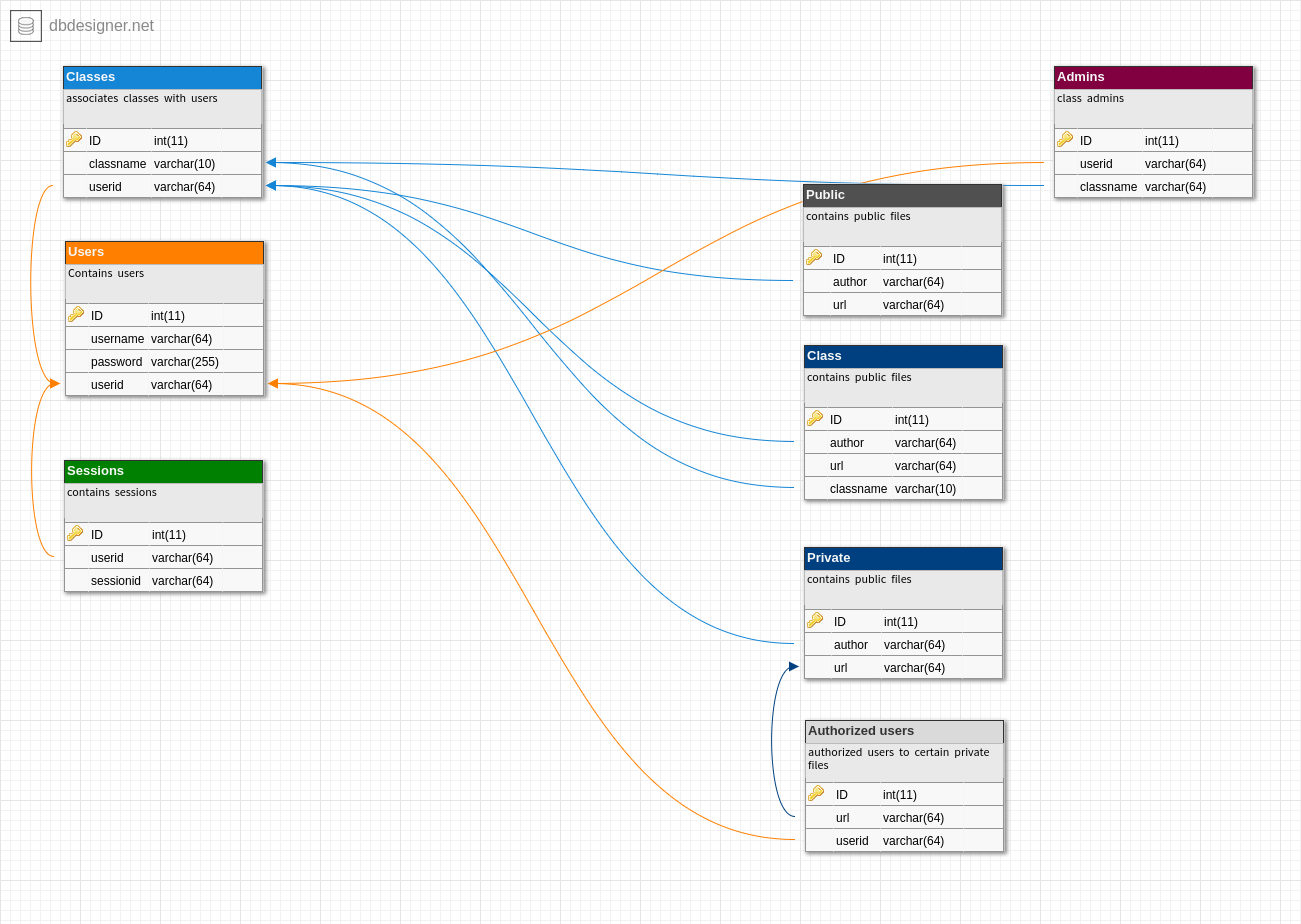
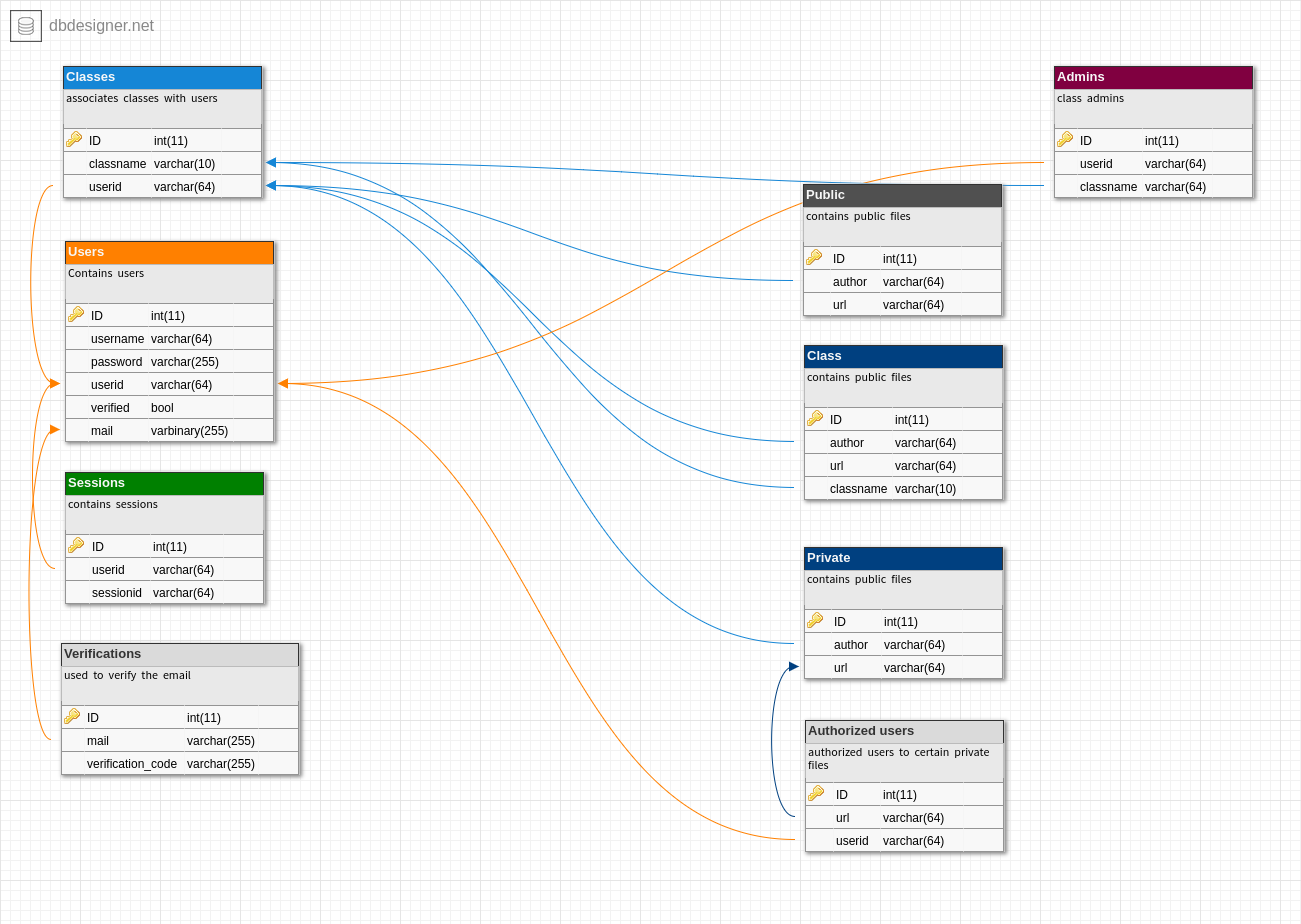
Updated database_image, added Verifications table and added 'email' field to Users table

diff --git a/lib/api/Auth.js b/lib/api/Auth.js
@@ -9,7 +9,55 @@ var mysql = new MySQL();
 var config  = fs.readFileSync('config.json', 'utf8');
 config = JSON.parse(config);
 
+module.exports.resend = (oldEmail, newEmail) => {
 
+  return new Promise(
+
+    (resolve, reject) => {
+
+      // This function's used to allow the user resend the confirmation email
+      // in case the first one hasn't been received (or something else)
+
+      // regenerating stuff for the verification
+
+      var code = random.generate(32),
+          from = config.email,
+          mailTo = newEmail,
+          user;
+
+      // checking if the user has a pending verification
+
+      utils.checkVerification(oldEmail).then(username => {
+
+        user = username;
+
+        return mysql.query("INSERT INTO Verifications (mail, code) VALUES(?,?)", [mailTo, code]);
+
+      })
+
+      .then(success => {
+
+        return utils.sendVerification(code, from, mailTo, user)
+
+      })
+
+      .then(success => {
+
+        return resolve({success: true});
+
+      })
+
+      .catch(err => {
+
+        return reject(err);
+
+      })
+
+    }
+
+  )
+
+}
 
 module.exports.verify = (email, code) => {
 
@@ -64,8 +112,11 @@ module.exports.register = function(username, password, email){
       if(!username || !password || !email)
         return reject([{error: 'missing_parameter'}, 403]);
 
+      // regex that matches an email
       var regex = /^(([^<>()\[\]\\.,;:\s@"]+(\.[^<>()\[\]\\.,;:\s@"]+)*)|(".+"))@((\[[0-9]{1,3}\.[0-9]{1,3}\.[0-9]{1,3}\.[0-9]{1,3}])|(([a-zA-Z\-0-9]+\.)+[a-zA-Z]{2,}))$/;
       var reg = regex.test(email);
+
+      // regex that matches an username that can contain alphanumeric characters, _ and -
       var userRegex = /^[A-Za-z0-9]+(?:[ _-][A-Za-z0-9]+)*$/;
       var usReg = userRegex.test(username)
 
@@ -75,19 +126,31 @@ module.exports.register = function(username, password, email){
       if(!usReg || username.indexOf(' ') >= 1)
           return reject([{error: 'bad_username'}, 400])
 
+      // everything is fine
 
       utils.checkUser(username, email)
       .then(success => {
 
-        console.log("ok")
+        // user does not exists, so we can register it
+
+        // 1st step: hasing the password
+
         return utils.hash(password);
 
       })
 
       .then(hash => {
 
+      /*
+
+        once we hashed the password, we proceed generating the user-id
+        that we will be used to identify the person inside the system
+
+      */
+
       var userid = random.generate(64);
-      console.log("ok")
+
+      // registration, not verified yet
 
       return mysql.query("INSERT INTO Users (username, password, userid, email) VALUES(?,?,?,?)",
                [username, hash, userid, email]);
@@ -96,10 +159,13 @@ module.exports.register = function(username, password, email){
 
     .then(row => {
 
-      var code = random.generate(32);
-      var url = config.url + '/verify/' + email + '/' + code;
+      // creating a url with which the user will actually activate his account.
 
-      utils.sendVerification(code, config.email, email, url, username).then(success => {})
+      var code = random.generate(32);
+
+      utils.sendVerification(code, config.email, email, username).then(success => {})
+
+      // table used for verifications, users are inserted, then, once the url is visited, the profile is activated
 
       return mysql.query("INSERT INTO Verifications (mail, code) VALUES(?,?)", [email, code])
 
@@ -130,6 +196,10 @@ module.exports.login = (username, password) => {
       if(!username || !password)
         return reject({error: 'missing_parameter'});
 
+        // object that will be returned from the API
+        // it's a messy way to do it
+        // will fix in the future
+
         var returned = {
 
           success: true,
@@ -152,6 +222,9 @@ module.exports.login = (username, password) => {
           returned.id = row[0].userid;
           returned.mail = row[0].email;
           returned.verified = row[0].verified;
+
+          // I actually don't know why i did this in a separate function, but it checks the password.
+
           return utils.verify(hash, password);
 
         }).then(success => {
@@ -164,7 +237,7 @@ module.exports.login = (username, password) => {
 
           returned.sessionid = stuff;
 
-          return resolve(returned);
+          return resolve(returned); // finally returns the object with data in it
 
         })
 

diff --git a/lib/api/Utils.js b/lib/api/Utils.js
@@ -10,7 +10,7 @@ config = JSON.parse(config);
 
 var mysql = new MySQL();
 
-module.exports.sendVerification = (code, from, mailTo, url, username) => {
+module.exports.sendVerification = (code, from, mailTo, username) => {
 
   return new Promise(
 
@@ -27,6 +27,7 @@ module.exports.sendVerification = (code, from, mailTo, url, username) => {
 
     });
 
+      var url = config.url + '/verify/' + mailTo + '/' + code;
       var options = {
 
         from: '"Registrazione Appunti" <' + from + '>',
@@ -48,11 +49,61 @@ module.exports.sendVerification = (code, from, mailTo, url, username) => {
 
             console.log("Verification %s has expired", code);
 
-          });
+          }).catch(err => {
 
-          return resolve(true)
+            return reject([{error: 'fatal'}, 500]);
+
+          })
 
         }, 7200000);
+
+        return resolve(true)
+
+      })
+
+    }
+
+  )
+
+}
+
+module.exports.checkVerification = (mail) => {
+
+  return new Promise(
+
+    (resolve, reject) => {
+
+      // it checks if the email actually exists
+
+      mysql.query("SELECT * FROM Users WHERE BINARY email = ?", [mail]).then(row => {
+
+        if(row.length > 1) return reject([{error: '???'}, 500]);
+        if(row.length == 0) return reject([{error: 'not_found'}, 404]);
+
+        return mysql.query("SELECT * FROM Verifications WHERE BINARY mail = ?", [mail]);
+
+      })
+
+      .then(row => {
+
+        var username = row[0].username;
+
+        if(row.length > 1) return reject([{error: '???'}, 500]); // impossible, but who knows
+        if(row.length == 1){
+
+          mysql.query("DELETE FROM Verifications WHERE BINARY email = ?", [mail]).then(success => {
+
+            console.log("Deleted verification from %s, sending a new one...", email);
+
+          }).catch(err => { return reject([{error: 'fatal'}, 500]); })
+
+        }
+
+        return resolve(username)
+
+      }).catch(err => {
+
+        return reject([{error: 'fatal'}, 500]);
 
       })
 
@@ -70,8 +121,6 @@ module.exports.checkUser = (username, mail) => {
 
       mysql.query("SELECT * FROM Users WHERE BINARY username = ? OR BINARY email = ?", [username, mail]).then(row => {
 
-        console.log(row)
-
         if(row.length > 1) return reject([{error: '???'}, 500]); // impossible, but you never know...
         if(row.length == 1) return reject([{error: 'already_exists'}, 409]);
 
@@ -79,7 +128,8 @@ module.exports.checkUser = (username, mail) => {
 
       }).catch(err => {
 
-        return reject(err);
+        return reject([{error: 'fatal'}, 500]);
+
       })
 
     }
@@ -108,7 +158,7 @@ module.exports.genSession = (userid) => {
 
             }).catch(err => {
 
-              return reject({error: 'fatal'})
+              return reject([{error: 'fatal'}, 500]);
 
             })
 
@@ -116,7 +166,7 @@ module.exports.genSession = (userid) => {
 
         }).catch(err => {
 
-          return reject(err);
+          return reject([{error: 'fatal'}, 500]);
 
         })
 
@@ -134,7 +184,7 @@ module.exports.hash = (password) => {
 
       bcrypt.hash(password, null, null, (err, hash) => {
 
-        if(err) return reject(err);
+        if(err) return reject([{error: 'fatal'}, 500]);
 
         return resolve(hash);
 
@@ -154,7 +204,7 @@ module.exports.verify = (hash, password) => {
 
       bcrypt.compare(password, hash, (err, success) => {
 
-        if(err) return reject({error: 'fatal'});
+        if(err) return reject([{error: 'fatal'}, 500]);
         if(!success) return reject([{error: 'invalid_password'}, 404]);
 
         return resolve(success)

diff --git a/lib/Router.js b/lib/Router.js
@@ -61,6 +61,24 @@ Router.prototype.api = function(){
 
   })
 
+  api.post('/resend', (req, res) => {
+
+    var oldEmail = req.body.oldEmail,
+        newEmail = req.body.newEmail;
+
+    auth.resend(oldEmail, newEmail).then(success => {
+
+      res.json(success);
+
+    }).catch(err => {
+
+      res.status(err[1]);
+      res.json(err[0]);
+
+    })
+
+  })
+
   api.get('/verify/:email/:code', (req, res) => {
 
     var code = req.params.code,

diff --git a/lib/MySQL.js b/lib/MySQL.js
@@ -34,8 +34,10 @@ var MySQL = function(){
 }
 
 /*
+
   Using this type of method declaration to recycle the object that is istantiated
   every time we use it
+  
 */
 
 MySQL.prototype.query = function(query, args){
